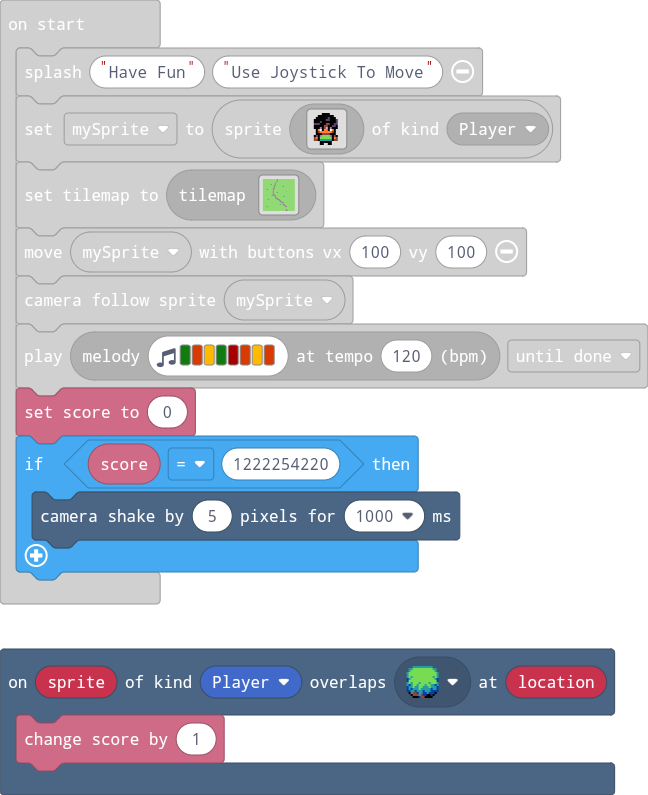
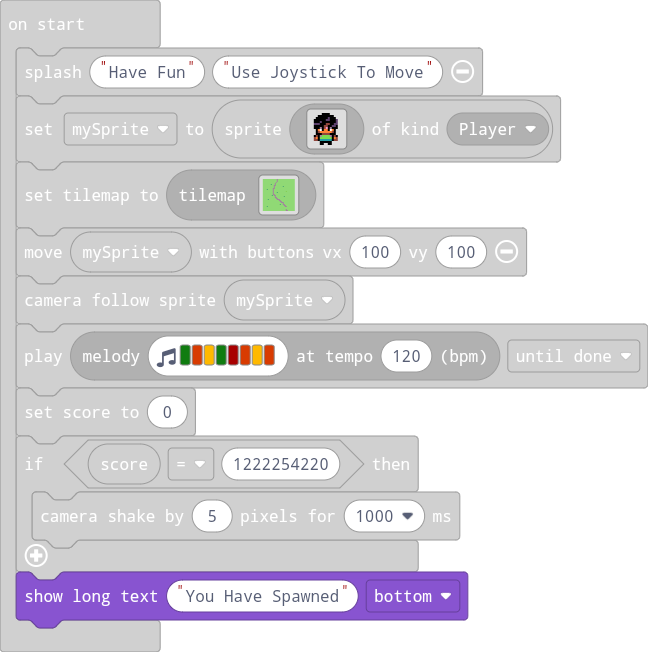
Update pxt.json, main.blocks, main.ts

diff --git a/main.ts b/main.ts
@@ -31,3 +31,4 @@ info.setScore(0)
 if (info.score() == 1222254220) {
     scene.cameraShake(5, 1000)
 }
+game.showLongText("You Have Spawned", DialogLayout.Bottom)
